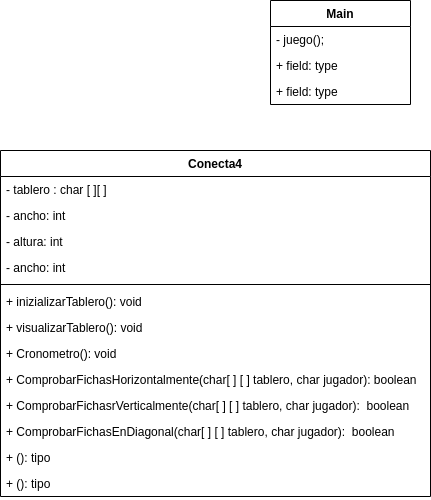
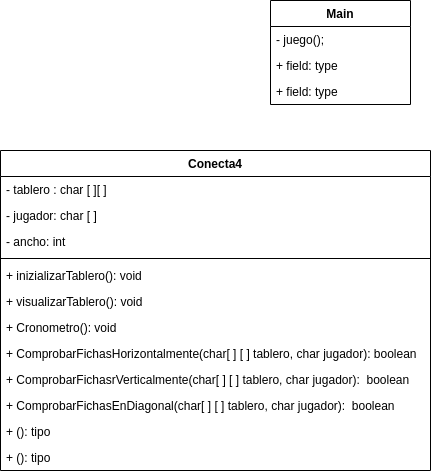
filling functions

Changed region(s): [[0.0, 0.2954, 1.0, 1.0], [0.6334, 0.0, 0.9652, 0.1477], [0.6334, 0.1772, 0.9652, 0.2363]]

diff --git a/src/Conecta4.java b/src/Conecta4.java
@@ -2,7 +2,7 @@ import java.util.Scanner;
 
 public class Conecta4 {
     private static char[][] tablero = new char[6][15];    //filas-columnas
-    private static final char[] jugador = {'A', 'B'}; // A= jugador 1  B = jugador 2
+    private static final char[] jugador = {'X', 'O'}; // X= jugador 1  O= jugador 2
 
     public static void juego() {
         Scanner sc = new Scanner(System.in);
@@ -12,9 +12,10 @@ public class Conecta4 {
                 System.out.println("Tablero vacio:");
                 crearTablero(tablero);
                 imprimirTablero(tablero);
+
                 break;
             case 2:
-                cronometro();
+                comprobarFichasEnVertical(tablero, jugador[0]);
 
                 break;
             default:
@@ -31,16 +32,58 @@ public class Conecta4 {
     }
 
     public static void crearTablero(char[][] tablero) {
-        for (int filas = 0; filas < tablero.length; filas++) {
-            for (int columnas = 0; columnas < tablero[filas].length; columnas++) {
-                if (columnas % 2 == 0) {
-                    tablero[filas][columnas] = '|';
+        for (int i = 0; i < tablero.length; i++) {
+            for (int j = 0; j < tablero[i].length; j++) {
+                if (j % 2 == 0) {
+                    tablero[i][j] = '|';
                 } else {
-                    tablero[filas][columnas] = ' ';
+                    tablero[i][j] = ' ';
                 }
             }
         }
     }
+
+    public static void visualizarTablero(char[][] tablero, int ficha) {
+        for (int i = 0; i < tablero.length; i++) {
+            for (int j = 0; j < tablero[i].length; j++) {
+                if (j % 2 == 0) {
+                    tablero[i][j] = '|';
+                } else {
+                    tablero[i][j] = ' ';
+                }
+            }
+        }
+        imprimirTablero(tablero);
+    }
+
+    //0-1-2-3-4-5-6 --> columnas a elegir en el juego
+    //1-3-5-7-9-11-13 --> columnas equivalentes en el TABLERO
+    //iterar por cada fila
+    public static void introducirFichaJugador1(char[][] tablero) {
+        Scanner sc = new Scanner(System.in);
+        System.out.print("elige una columna del 0 al 6: ");
+        int ficha = 2 * sc.nextInt() + 1;
+        // 0-5 = filas de cada columna en el TABLERO
+        //iterar de la fila 5 a la fila 0
+        for (int i = 5; i >= 0; i--) {
+            if (tablero[i][ficha] == ' ') {
+                tablero[i][ficha] = 'X';
+                break;
+            }
+        }
+    }
+
+    public static void introducirFichaJugador2(char[][] tablero, Scanner sc) {
+        System.out.print("elige una columna del 0 al 6: ");
+        int ficha = 2 * sc.nextInt() + 1;
+        for (int i = 5; i >= 0; i--) {
+            if (tablero[i][ficha] == ' ') {
+                tablero[i][ficha] = 'O';
+                break;
+            }
+        }
+    }
+
 
     public static void imprimirTablero(char[][] tablero) {
         for (char[] f : tablero) {
@@ -49,40 +92,78 @@ public class Conecta4 {
             }
             System.out.println();
         }
-    }
-
-    public static void visualizarTablero() {
-
+        System.out.println("|0|1|2|3|4|5|6|");
     }
 
 
-    //crear un cronometro que se mostrara cada vez que muestra el tablero,
-    // mostrando el tiempo que transcurre en la partida
+    //si ejecuto la opcion 1 del menu, el cronometro empieza a ejecutarse.
+    //crear un cronometro que se mostrara y actualizar mientras el juego no acabe
     public static void cronometro() {
         Scanner sc = new Scanner(System.in);
-        long inicio,fin;
-        double tiempoTotal;
-        //si ejecuto la opcion 1 del menu, el cronometro empieza a ejecutarse.
+        long inicio, fin;
+        double tiempoTranscurridoTotal;
         System.out.println("escribe un caracter para empezar el cronometro:");
         char comienzaTiempo = sc.next().charAt(0);
         inicio = System.currentTimeMillis();
         System.out.println("escribe un caracter para finalizar el cronometro:");
         char terminaTiempo = sc.next().charAt(0);
         fin = System.currentTimeMillis();
-        tiempoTotal = (fin - inicio) / 1000.0;
-        System.out.println(tiempoTotal);
+
+        tiempoTranscurridoTotal = (fin - inicio) / 1000.0;
+        System.out.println(tiempoTranscurridoTotal);
     }
+
+    // posiciones en TABLERO:
+    // 1-3-5-7-9-11-13
+    // comprobacion 1 = 1-3-5-7
+    // comprobacion 2 = 3-5-7-9
+    // comprobacion 3 = 5-7-9-11
+    // comprobacion 4 = 7-9-11-13
 
     public static boolean ComprobarFichasEnHorizontal(char[][] tablero, char jugador) {
+        for (int i = 0; i < tablero.length; i++) {   // filas
+            for (int j = 0; j < tablero[i].length; j += 2) {  //posicones col totales = 15
+                if ((tablero[i][j + 1] == jugador) &&
+                        (tablero[i][j + 3] == jugador) &&
+                        (tablero[i][j + 5] == jugador) &&
+                        (tablero[i][j + 7] == jugador)) {
+                    return true;
+                }
+            }
+        }
         return true;
     }
 
-    public static boolean ComprobarFichasEnVertical(char[][] tablero, char jugador) {
+    // comprobar cada columna de ultima posicion a primera posicion
+    //
+    //[0][0]
+    //[1][0]
+    //[2][0]
+    //[3][0]
+    //[4][0]
+    //[5][0]
+    public static boolean comprobarFichasEnVertical(char[][] tablero, char jugador) {
+        System.out.println(tablero.length);
+        System.out.println(tablero[0].length);
+        for (int i = tablero.length - 1; i >= 0; i--) {
+            for (int j = 1; j < tablero[0].length; j += 2) {
+                if ((tablero[i][j] == jugador) &&
+                        (tablero[i][j + 1] == jugador) &&
+                        (tablero[i][j + 2] == jugador) &&
+                        (tablero[i][j + 3] == jugador)) {
+                    return true;
+                }
+            }
+        }
         return true;
     }
-
+    // comprobar 6 diagonales dentro de la tabla
     public static boolean ComprobarFichasEnDiagonal(char[][] tablero, char jugador) {
         return true;
+    }
+
+    public static void resumenPartida() {
+        cronometro();
     }
 
 }
